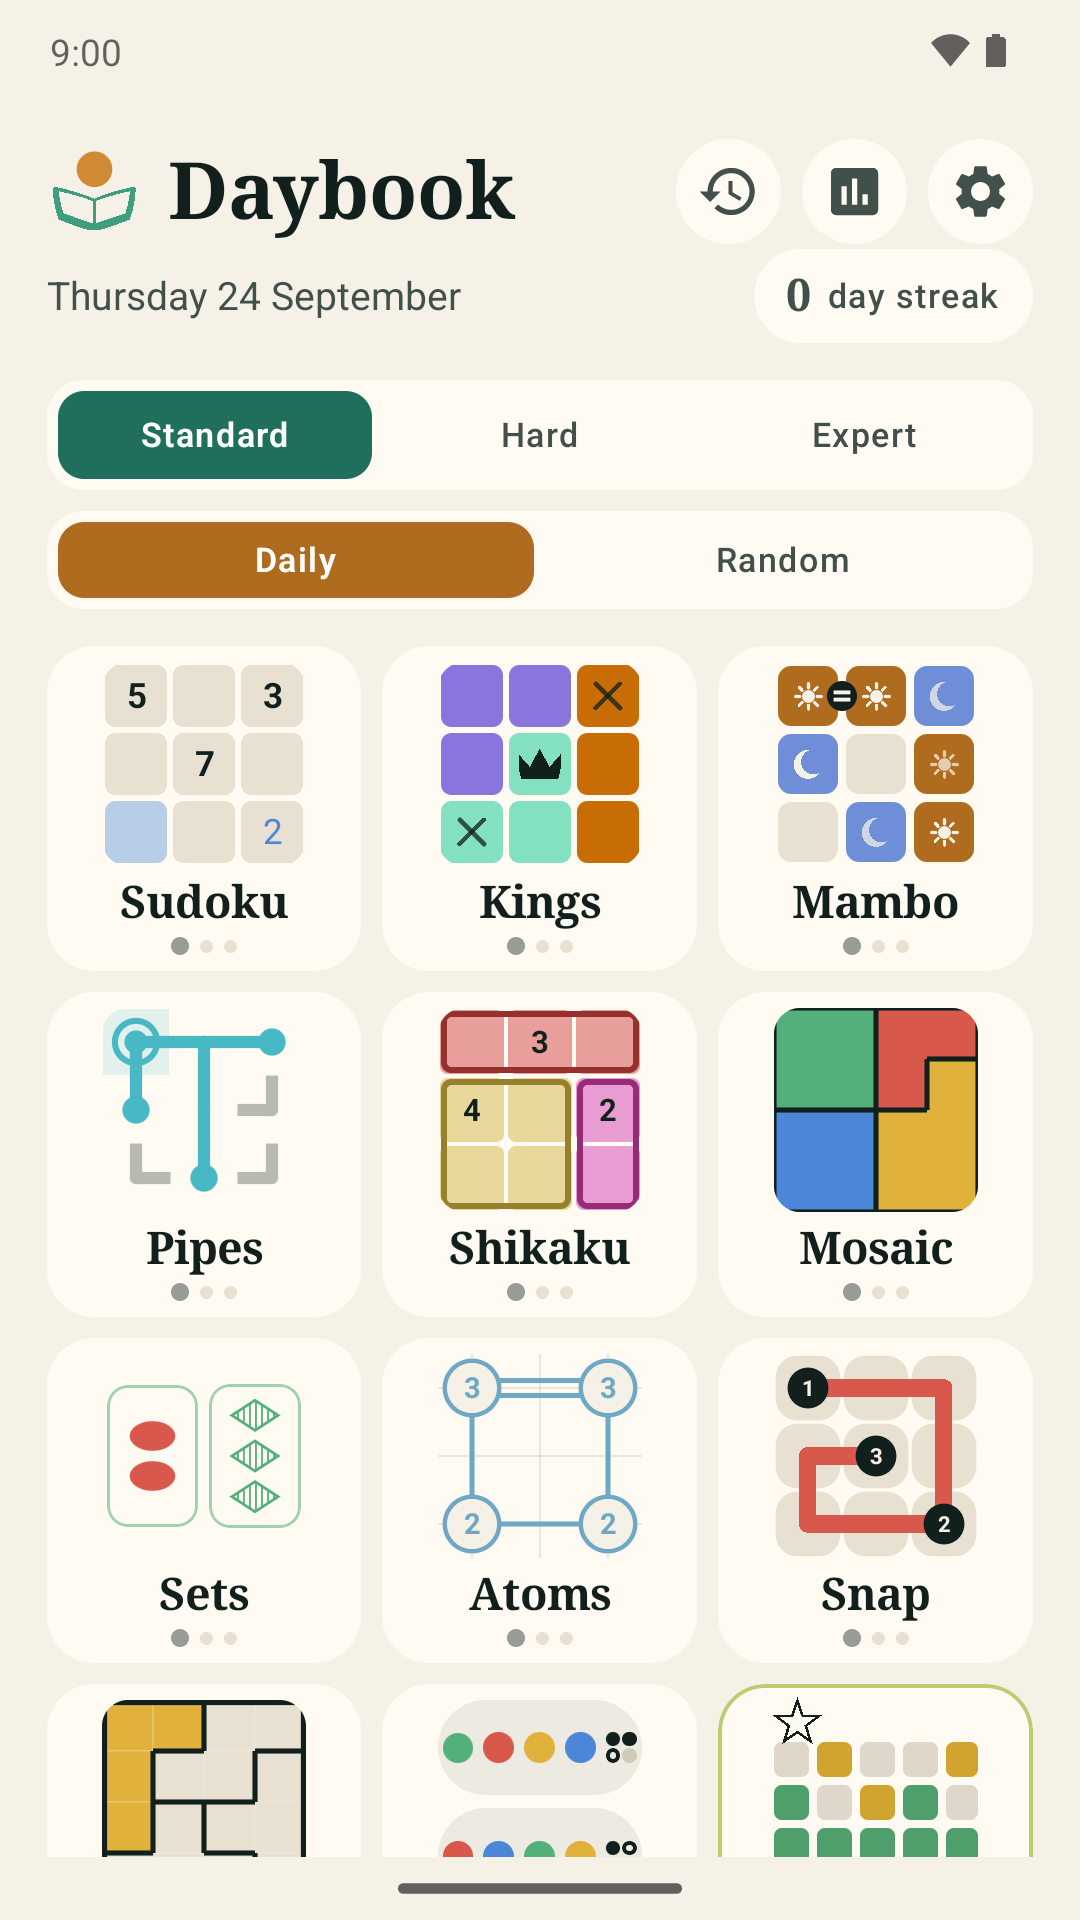
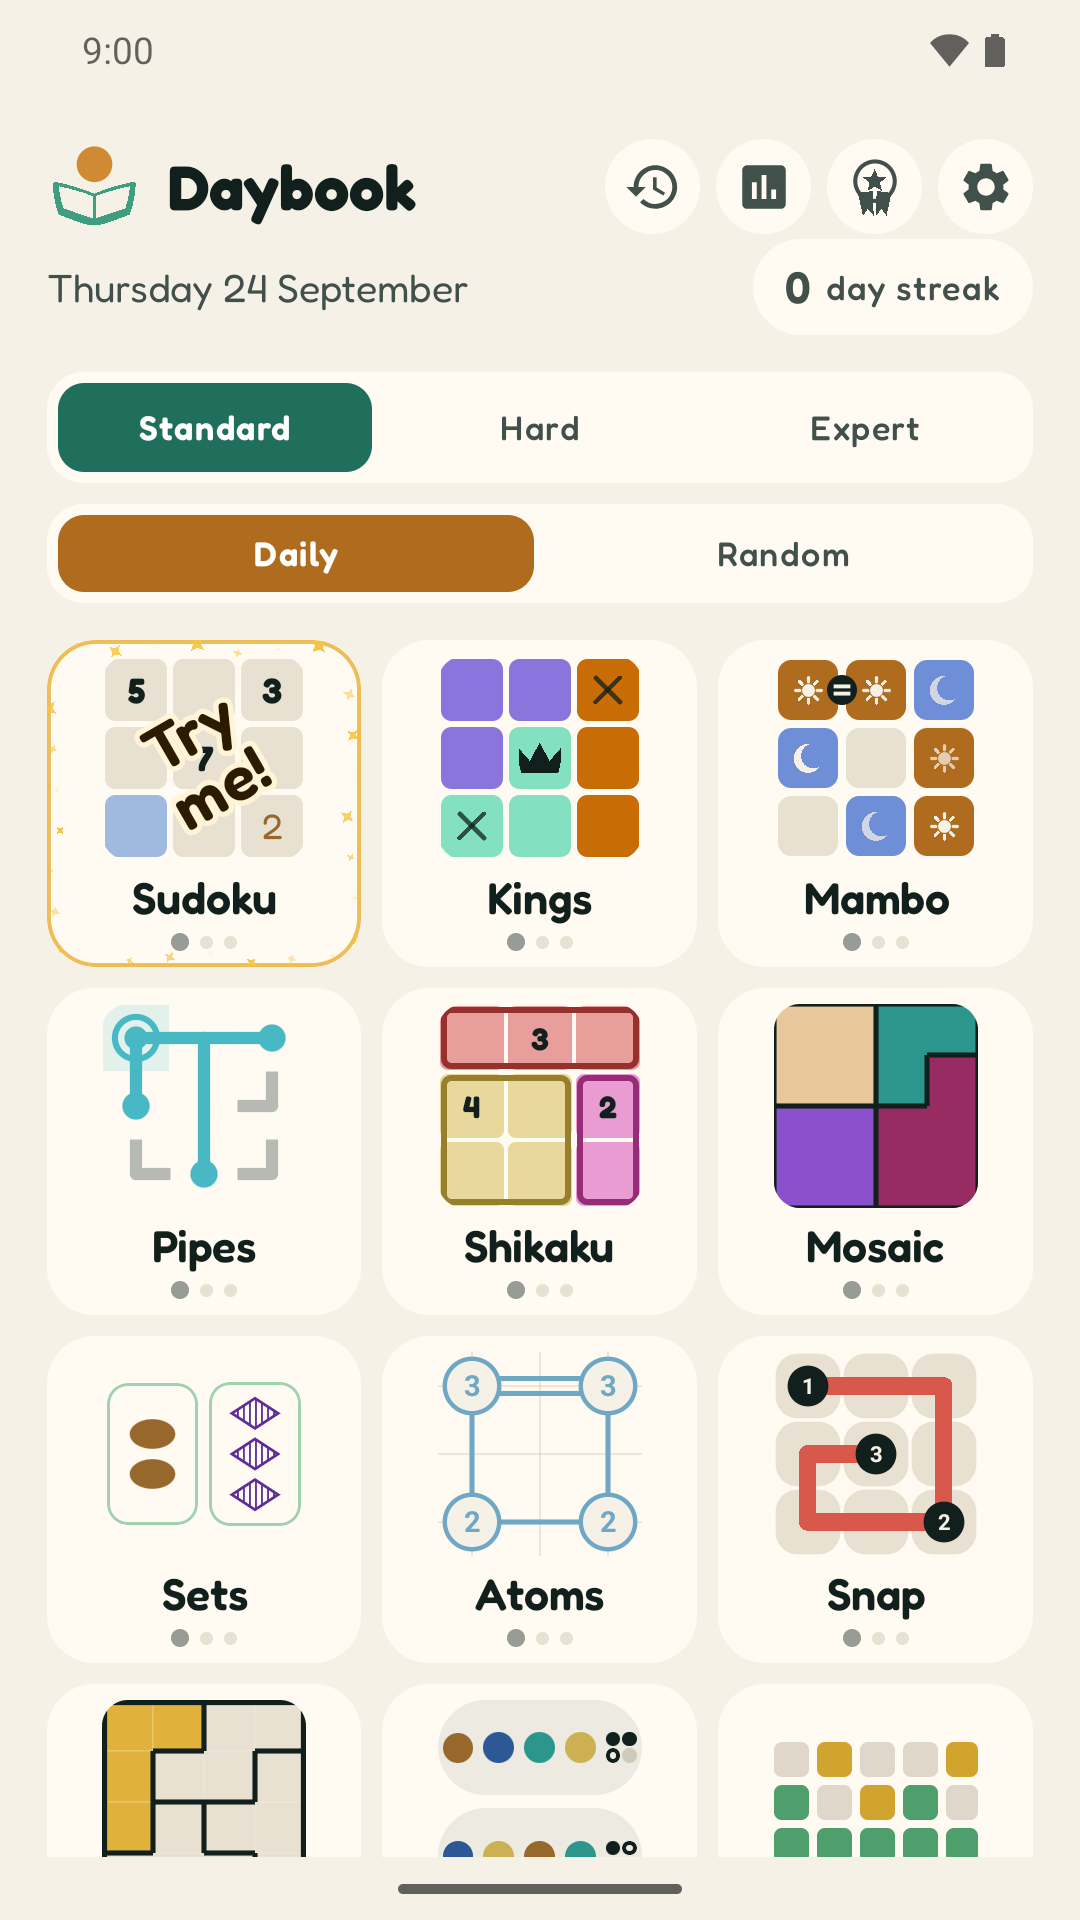
Tents: verification pass, recaptured screenshots, TODO follow-ups

diff --git a/docs/PUZZLE_STANDARDS.md b/docs/PUZZLE_STANDARDS.md
@@ -499,7 +499,7 @@ Y = yes, P = partial, N = no.
 | Inequality | Y side | Y `generateVerified` (a board ships only if the teacher's ladder finishes it, then re-proved by `countSolutions`; `lastResort` is a cyclic square, also proved), year test | Y `InequalityLogic.isSolved` (rules, not the stored square) | Y `InequalityOracle` (naive reading-order search, counts every answer), `InequalityTeachingTest` | Y no fallback on generated boards | Y 6 | Y grid + sign indices + anchors + keepClear | Y `InequalityWebParityTest` | Y | Y 200 / 70 |
 | Nonogram | Y side | Y `generateVerified` (a picture ships only if `lineSolvable`, which makes it unique; `lastResort` is a fixed diagonal, also proved), year test | Y `NonogramLogic.isSolved` (clues, not the stored picture) | Y `NonogramOracle` (every arrangement of every row), `NonogramTeachingTest` brute force | Y no fallback exists | Y 6 | Y grid + clue indices | Y `NonogramWebParityTest` | Y | Y 200 / 70 |
 | Mate (chess) | Y mate in 2 / 3 / 4 | n/a no generator: a bundled list (`ChessPositions`), each entry proved offline by python-chess (shortest mate exactly N, one key) and re-proved in tests by `ChessRules.forcedMate`; no fallback exists | Y `ChessState.solved` (checkmate within N moves, not the stored line) | Y `ChessMateCheckerTest` naive minimax, perft with published counts | Y no fallback exists | Y 9 | Y square indices via `reportHighlight` + anchors + keepClear | Y `ChessWebParityTest` | Y | Y 200 / 70 |
-| Tents | Y side, trees | Y `generateVerified` (logic finishes it, then `countSolutions` == 1; `lastResort` proved unique), year test | Y `TentsLogic.isSolved` (rules, not the stored tents) | Y `TentsOracle`, `TentsTeachingTest` | Y | Y 7 | Y squares + clue indices via `reportHighlight` | Y `TentsWebParityTest` | Y | P not measured |
+| Tents | Y side, trees | Y `generateVerified` (logic finishes it, then `countSolutions` == 1; `lastResort` proved unique), year test | Y `TentsLogic.isSolved` (rules, not the stored tents) | Y `TentsOracle`, `TentsTeachingTest` | Y | Y 7 | Y squares + clue indices via `reportHighlight` | Y `TentsWebParityTest` | Y | Y 200 / 70 |
 
 ### Known gaps and open items
 

diff --git a/docs/TODO.md b/docs/TODO.md
@@ -19,8 +19,7 @@ from a measurement or review, so you can check it is still true.
   cannot operate them. Knowingly deferred while sideloaded; becomes real the day this reaches a store
   or another user. *L.* (`CLAUDE.md`, "Settled")
 
-- [ ] **Fredoka follow-ups.** README/Play/F-Droid screenshots (`docs/screenshots/`, `fastlane/metadata/`) still show the
-  old serif and need recapturing on the emulator (clean install, date pinned). Settings and Stats were not rendered
+- [ ] **Fredoka follow-ups.** Settings and Stats were not rendered
   with Fredoka (the harness cannot open them); look at both on Android and the web. Board glyphs drawn with their own
   `TextStyle` (Sudoku, Snap, Nonogram, Atoms, ...) name no family and stay the default font: decide whether they
   should be Fredoka too (it would move digit metrics inside cells).
@@ -202,4 +201,10 @@ not demand thought, against the owner's stated taste.
      fills stay clear of the surface; no hex literal for content colour outside the helper; `PUZZLE_STANDARDS.md`
      checklist gets a "content hues from the helper" row so new puzzles start compliant.
 
-- **Home screenshot may be stale.** Today's pick now has a gold sparkle frame and "Try me!" over its thumbnail (was a star); recapture `docs/screenshots/` home shot in the next pass that recaptures them.
+
+## Tents: not verified
+
+- The walkthrough's free-play frame (7 of 7) never shows its `done` line on any puzzle (`TutorialRunner` prints `frame.done` only when
+  `frame.accepts != null`); the chime and the Hint button vanishing are the only signs of a solve. Show `done` for a solved free-play frame.
+- Tents' touch path was driven with taps only (Chromium CDP, WebKit `touchscreen.tap`) on 5x5 walkthrough, 8x8 and 10x10. Headless WebKit
+  is not Safari; tap on a real iPhone and Android 15x15-sized squares are untested (Tents tops out at 10x10, so squares are ~31dp at 375).
